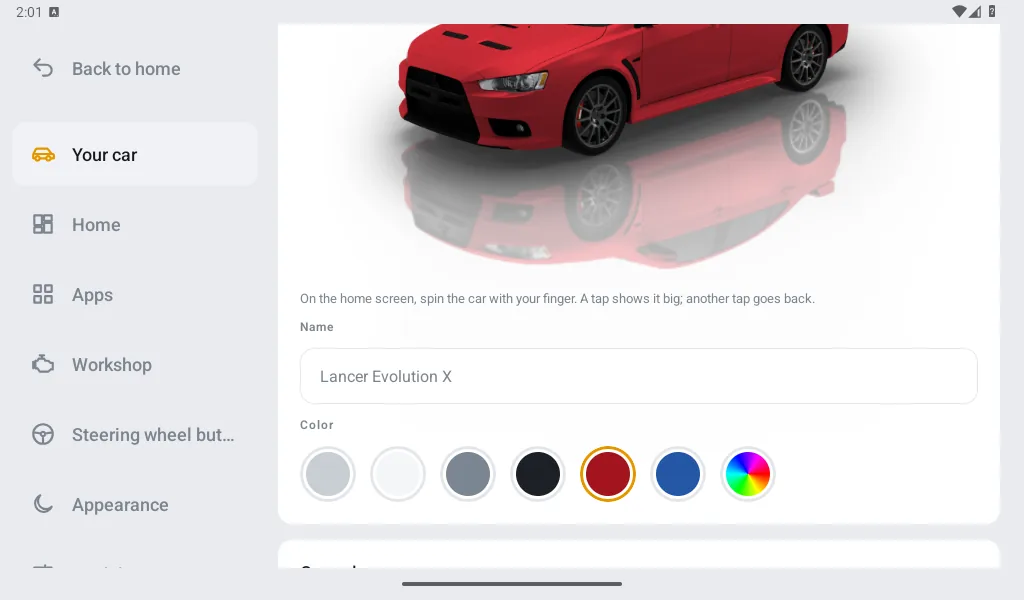
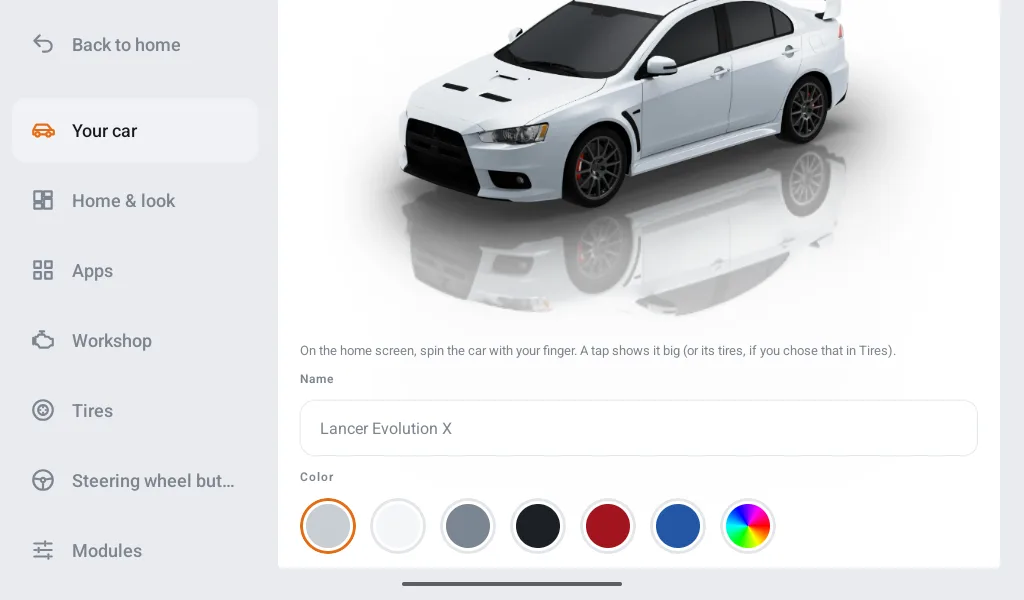
chore(web): Lancer Evolution X plata en las capturas de color y modo claro

diff --git a/site/en/index.html b/site/en/index.html
@@ -49,7 +49,7 @@
       <p class="nota">No ads, no accounts, no tracking. Open source.</p>
 
       <figure class="pantalla">
-        <img src="../img/inicio-oscuro-en.webp" alt="LiteDash home screen in dark mode: a white Lancer Evolution on the floor with its reflection, and the Navigate, Music and clock cards below" width="1024" height="600">
+        <img src="../img/inicio-oscuro-en.webp" alt="LiteDash home screen in dark mode: a silver Lancer Evolution on the floor with its reflection, and the Navigate, Music and clock cards below" width="1024" height="600">
         <figcaption>LiteDash 1.4 on a 7" head unit. The car is yours: model, color and name.</figcaption>
       </figure>
     </div>
@@ -94,7 +94,7 @@
             <li>Don't want to see a car? Speedometer-only templates, or your photo as the background with cards on top, BYD style.</li>
           </ul>
         </div>
-        <div class="captura"><img src="../img/inicio-claro-en.webp" alt="LiteDash home screen in light mode with a red Lancer Evolution on the floor" width="1024" height="600" loading="lazy"></div>
+        <div class="captura"><img src="../img/inicio-claro-en.webp" alt="LiteDash home screen in light mode with a silver Lancer Evolution on the floor, the speedometer, music and the map" width="1024" height="600" loading="lazy"></div>
       </div>
     </section>
 
@@ -109,7 +109,7 @@
             <li>You can always go back to the drawn sedan, which weighs nothing.</li>
           </ul>
         </div>
-        <div class="captura"><img src="../img/color-en.webp" alt="Settings → Your car: the Lancer painted red and the color picker" width="1024" height="600" loading="lazy"></div>
+        <div class="captura"><img src="../img/color-en.webp" alt="Settings → Your car: the Lancer Evolution in silver and the color picker" width="1024" height="600" loading="lazy"></div>
       </div>
     </section>
 

diff --git a/site/index.html b/site/index.html
@@ -49,7 +49,7 @@
       <p class="nota">Sin anuncios, sin cuentas y sin rastreo. Código abierto.</p>
 
       <figure class="pantalla">
-        <img src="img/inicio-oscuro.webp" alt="Inicio de LiteDash en modo oscuro: un Lancer Evolution blanco sobre el piso con su reflejo, y las tarjetas Navegar, Música y la hora debajo" width="1024" height="600">
+        <img src="img/inicio-oscuro.webp" alt="Inicio de LiteDash en modo oscuro: un Lancer Evolution plata sobre el piso con su reflejo, y las tarjetas Navegar, Música y la hora debajo" width="1024" height="600">
         <figcaption>LiteDash 1.4 en una pantalla de 7". El auto es tuyo: modelo, color y nombre.</figcaption>
       </figure>
     </div>
@@ -94,7 +94,7 @@
             <li>¿No quieres ver un auto? Plantillas de solo velocímetro o tu foto de fondo con tarjetas, estilo BYD.</li>
           </ul>
         </div>
-        <div class="captura"><img src="img/inicio-claro.webp" alt="Inicio de LiteDash en modo claro con un Lancer Evolution rojo sobre el piso" width="1024" height="600" loading="lazy"></div>
+        <div class="captura"><img src="img/inicio-claro.webp" alt="Inicio de LiteDash en modo claro con un Lancer Evolution plata sobre el piso, el velocímetro, la música y el mapa" width="1024" height="600" loading="lazy"></div>
       </div>
     </section>
 
@@ -109,7 +109,7 @@
             <li>Siempre puedes volver al sedán dibujado, que no pesa nada.</li>
           </ul>
         </div>
-        <div class="captura"><img src="img/color.webp" alt="Ajustes → Tu auto: el Lancer pintado de rojo y el selector de color" width="1024" height="600" loading="lazy"></div>
+        <div class="captura"><img src="img/color.webp" alt="Ajustes → Tu auto: el Lancer Evolution en plata y el selector de color" width="1024" height="600" loading="lazy"></div>
       </div>
     </section>
 
